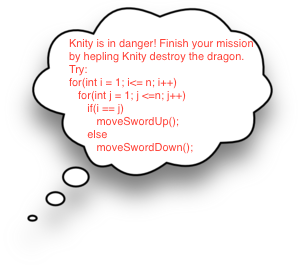
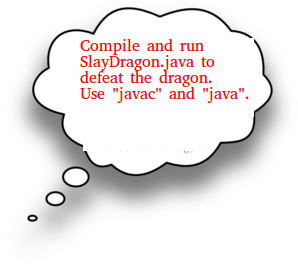
last stage

Changed region(s): [[0.0906, 0.1199, 0.9362, 0.779]]

diff --git a/console/console.html b/console/console.html
@@ -36,8 +36,10 @@
 </div>
 
 <div class="stage5">
-  <img class="tip" src="../level3/boolean.png" />
-  <p> This is stage 5 </p>
+  <img class="tip" src="../level5/level5.png" />
+  <p> <h1> BOSS BATTLE </h1></p>
+  <img id="knightstage5" src="../images/LittleKnight/png/Idle (10).png"/>
+  <img id="dragon" src="../level5/dragon.gif"/>
 </div>
 
 <div class="stage6">
@@ -70,7 +72,7 @@
   <span class="stage2"> Create a variable with your name: </span>
   <span class="stage3"> Call the method "takeStep": </span>
   <span class="stage4"> Is there an obstacle? </span>
-  <span class="stage5"> Stage 5: </span>
+  <span class="stage5"> Only use one line of code: </span>
   <span class="stage6">  </span>
   <input type="text" id="consolein" onkeydown="checkEnter()" size="40">
 </span> <!-- container2 -->

diff --git a/console/console.js b/console/console.js
@@ -97,6 +97,20 @@ function checkStage(i)
               alert("Sorry. That is wrong");
             }
             break;
+            case 5:
+              var inp=document.getElementById("consolein").value;
+                if (inp=="javac SlayDragon.java && java SlayDragon")
+              {
+
+                 jumpObstacle();
+
+
+              }
+              else
+              {
+                alert("Sorry. That is wrong");
+              }
+              break;
 
 
 

diff --git a/console/console.css b/console/console.css
@@ -73,6 +73,13 @@ input.stage
   cursor: pointer;
 }
 
+img#dragon
+{
+  width:500px;
+  position: absolute;
+  top: 100px;
+  right: 200px;
+}
 img#knightstage1
 {
   width: 150px;
@@ -97,6 +104,14 @@ img#knightstage3
 
 }
 img#knightstage4
+{
+  width: 150px;
+  position: absolute;
+  top: 400px;
+
+}
+
+img#knightstage5
 {
   width: 150px;
   position: absolute;
